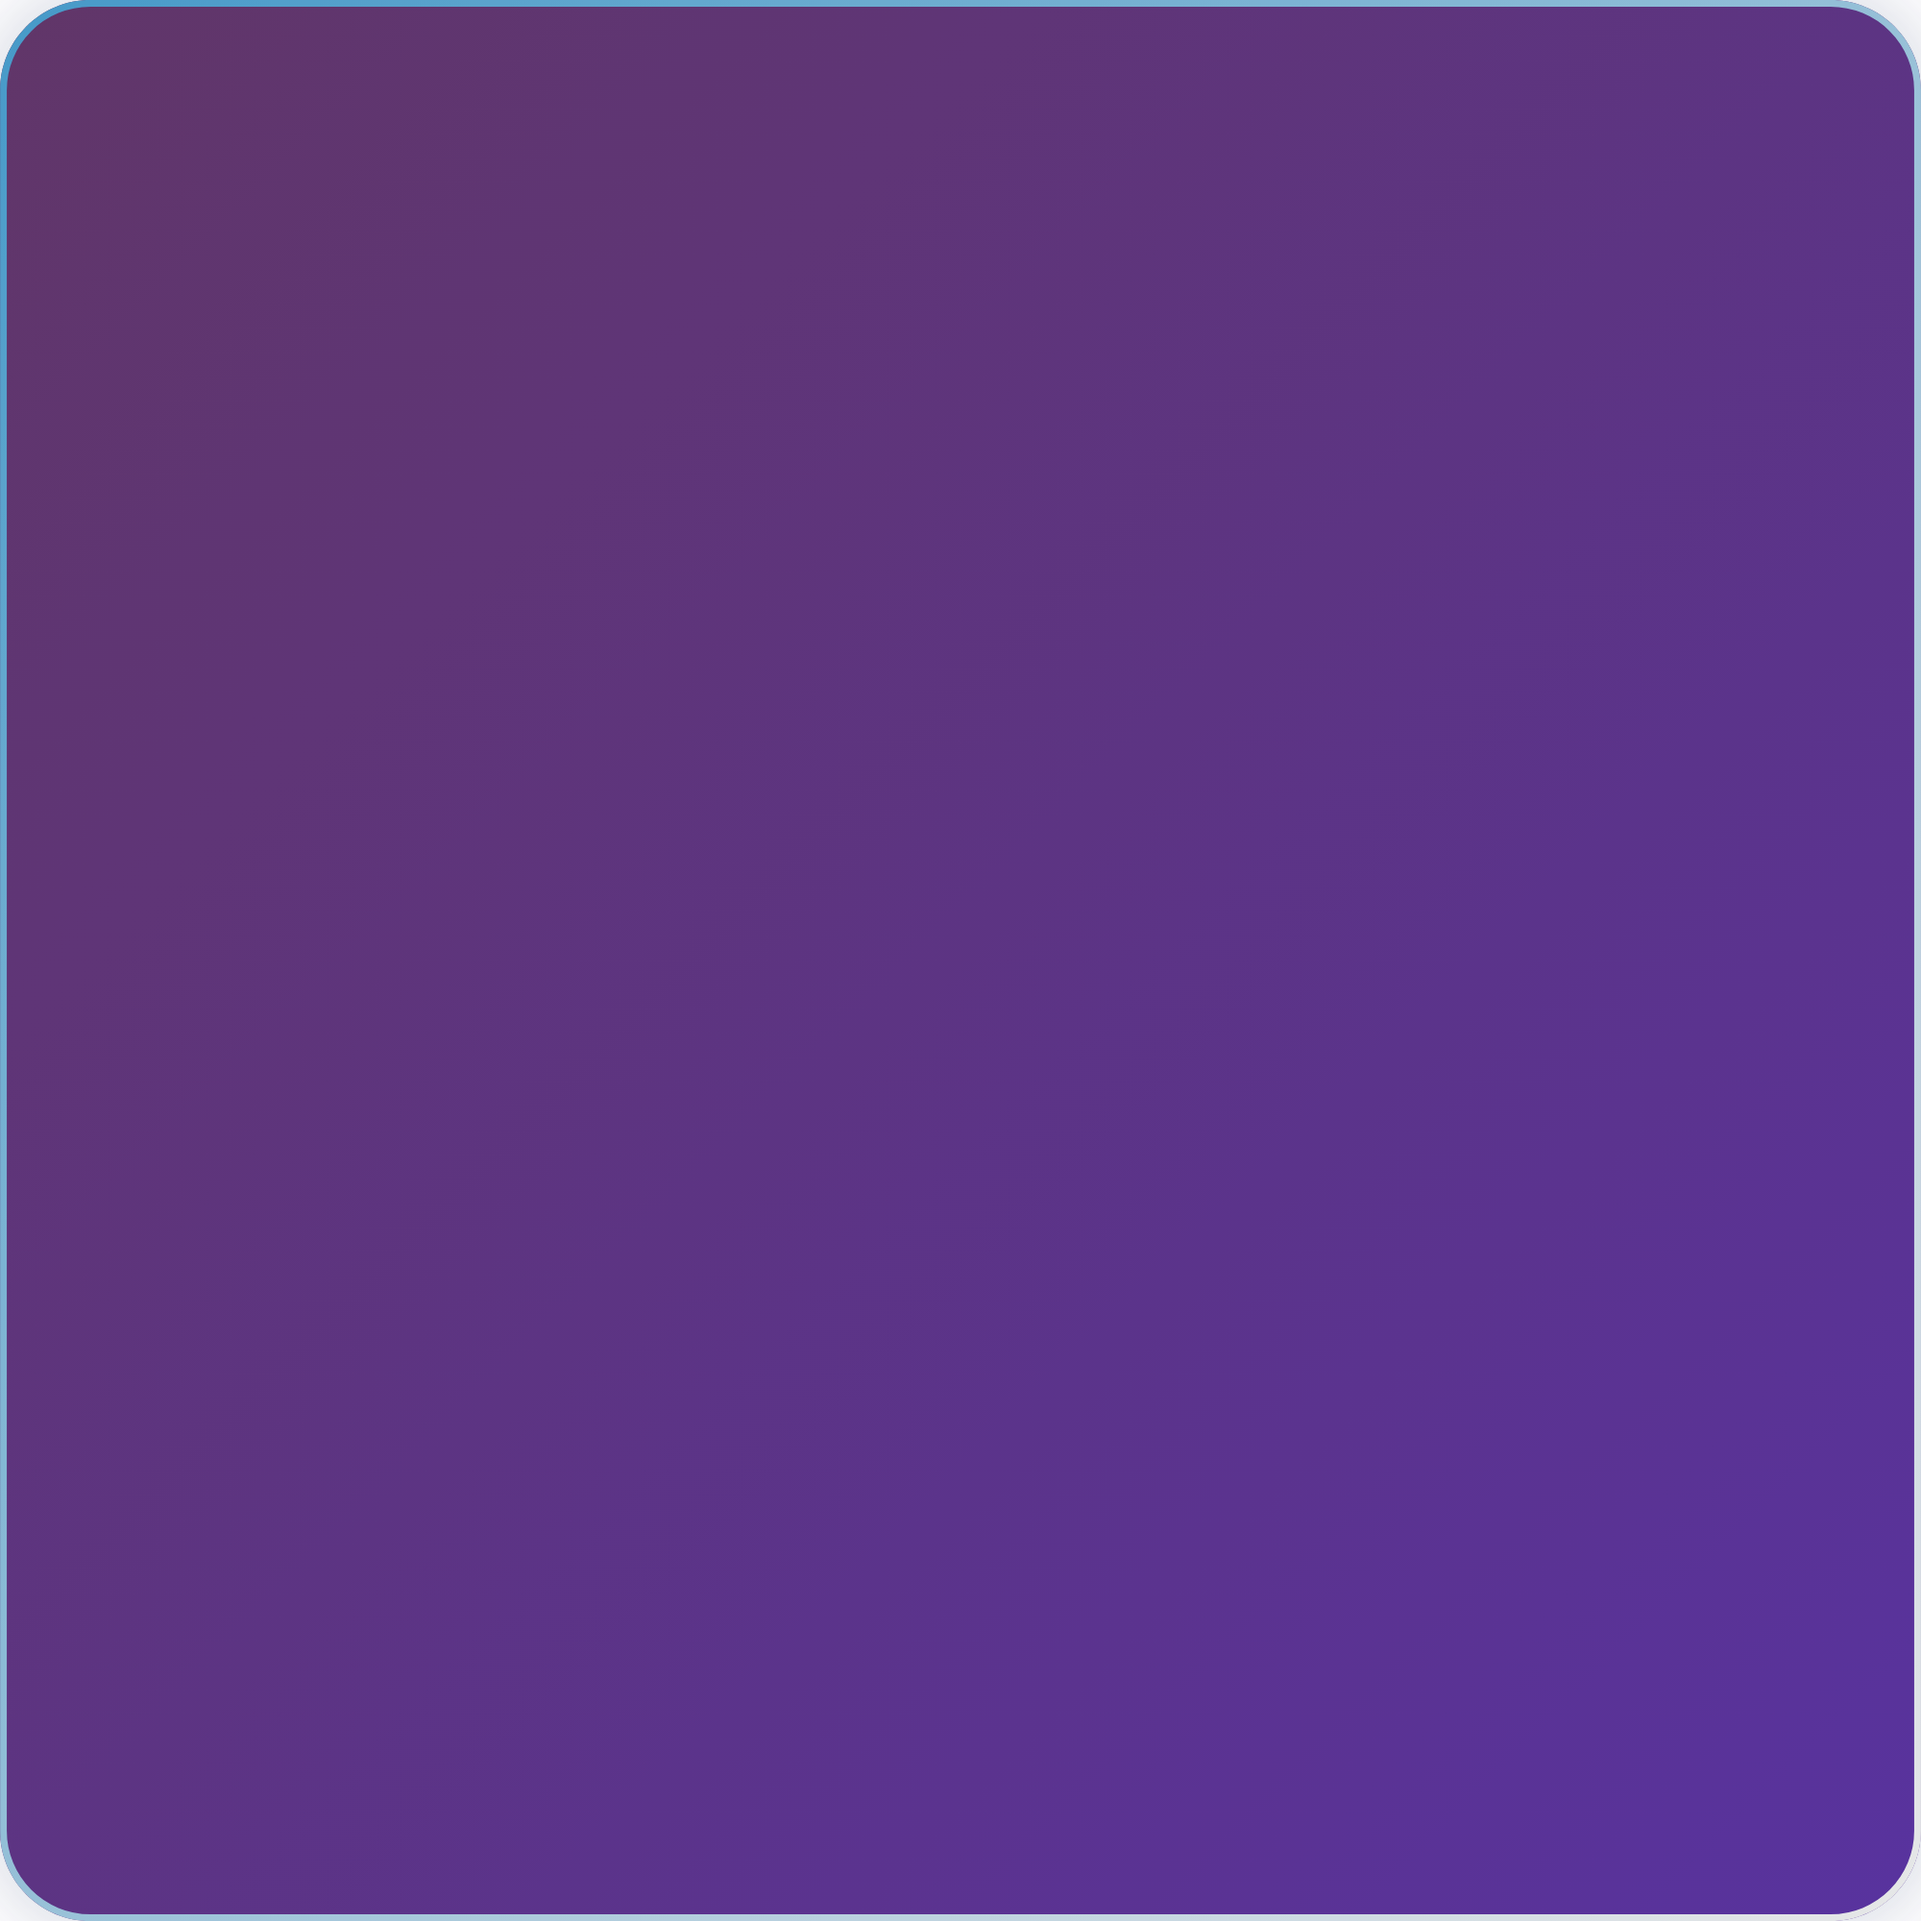
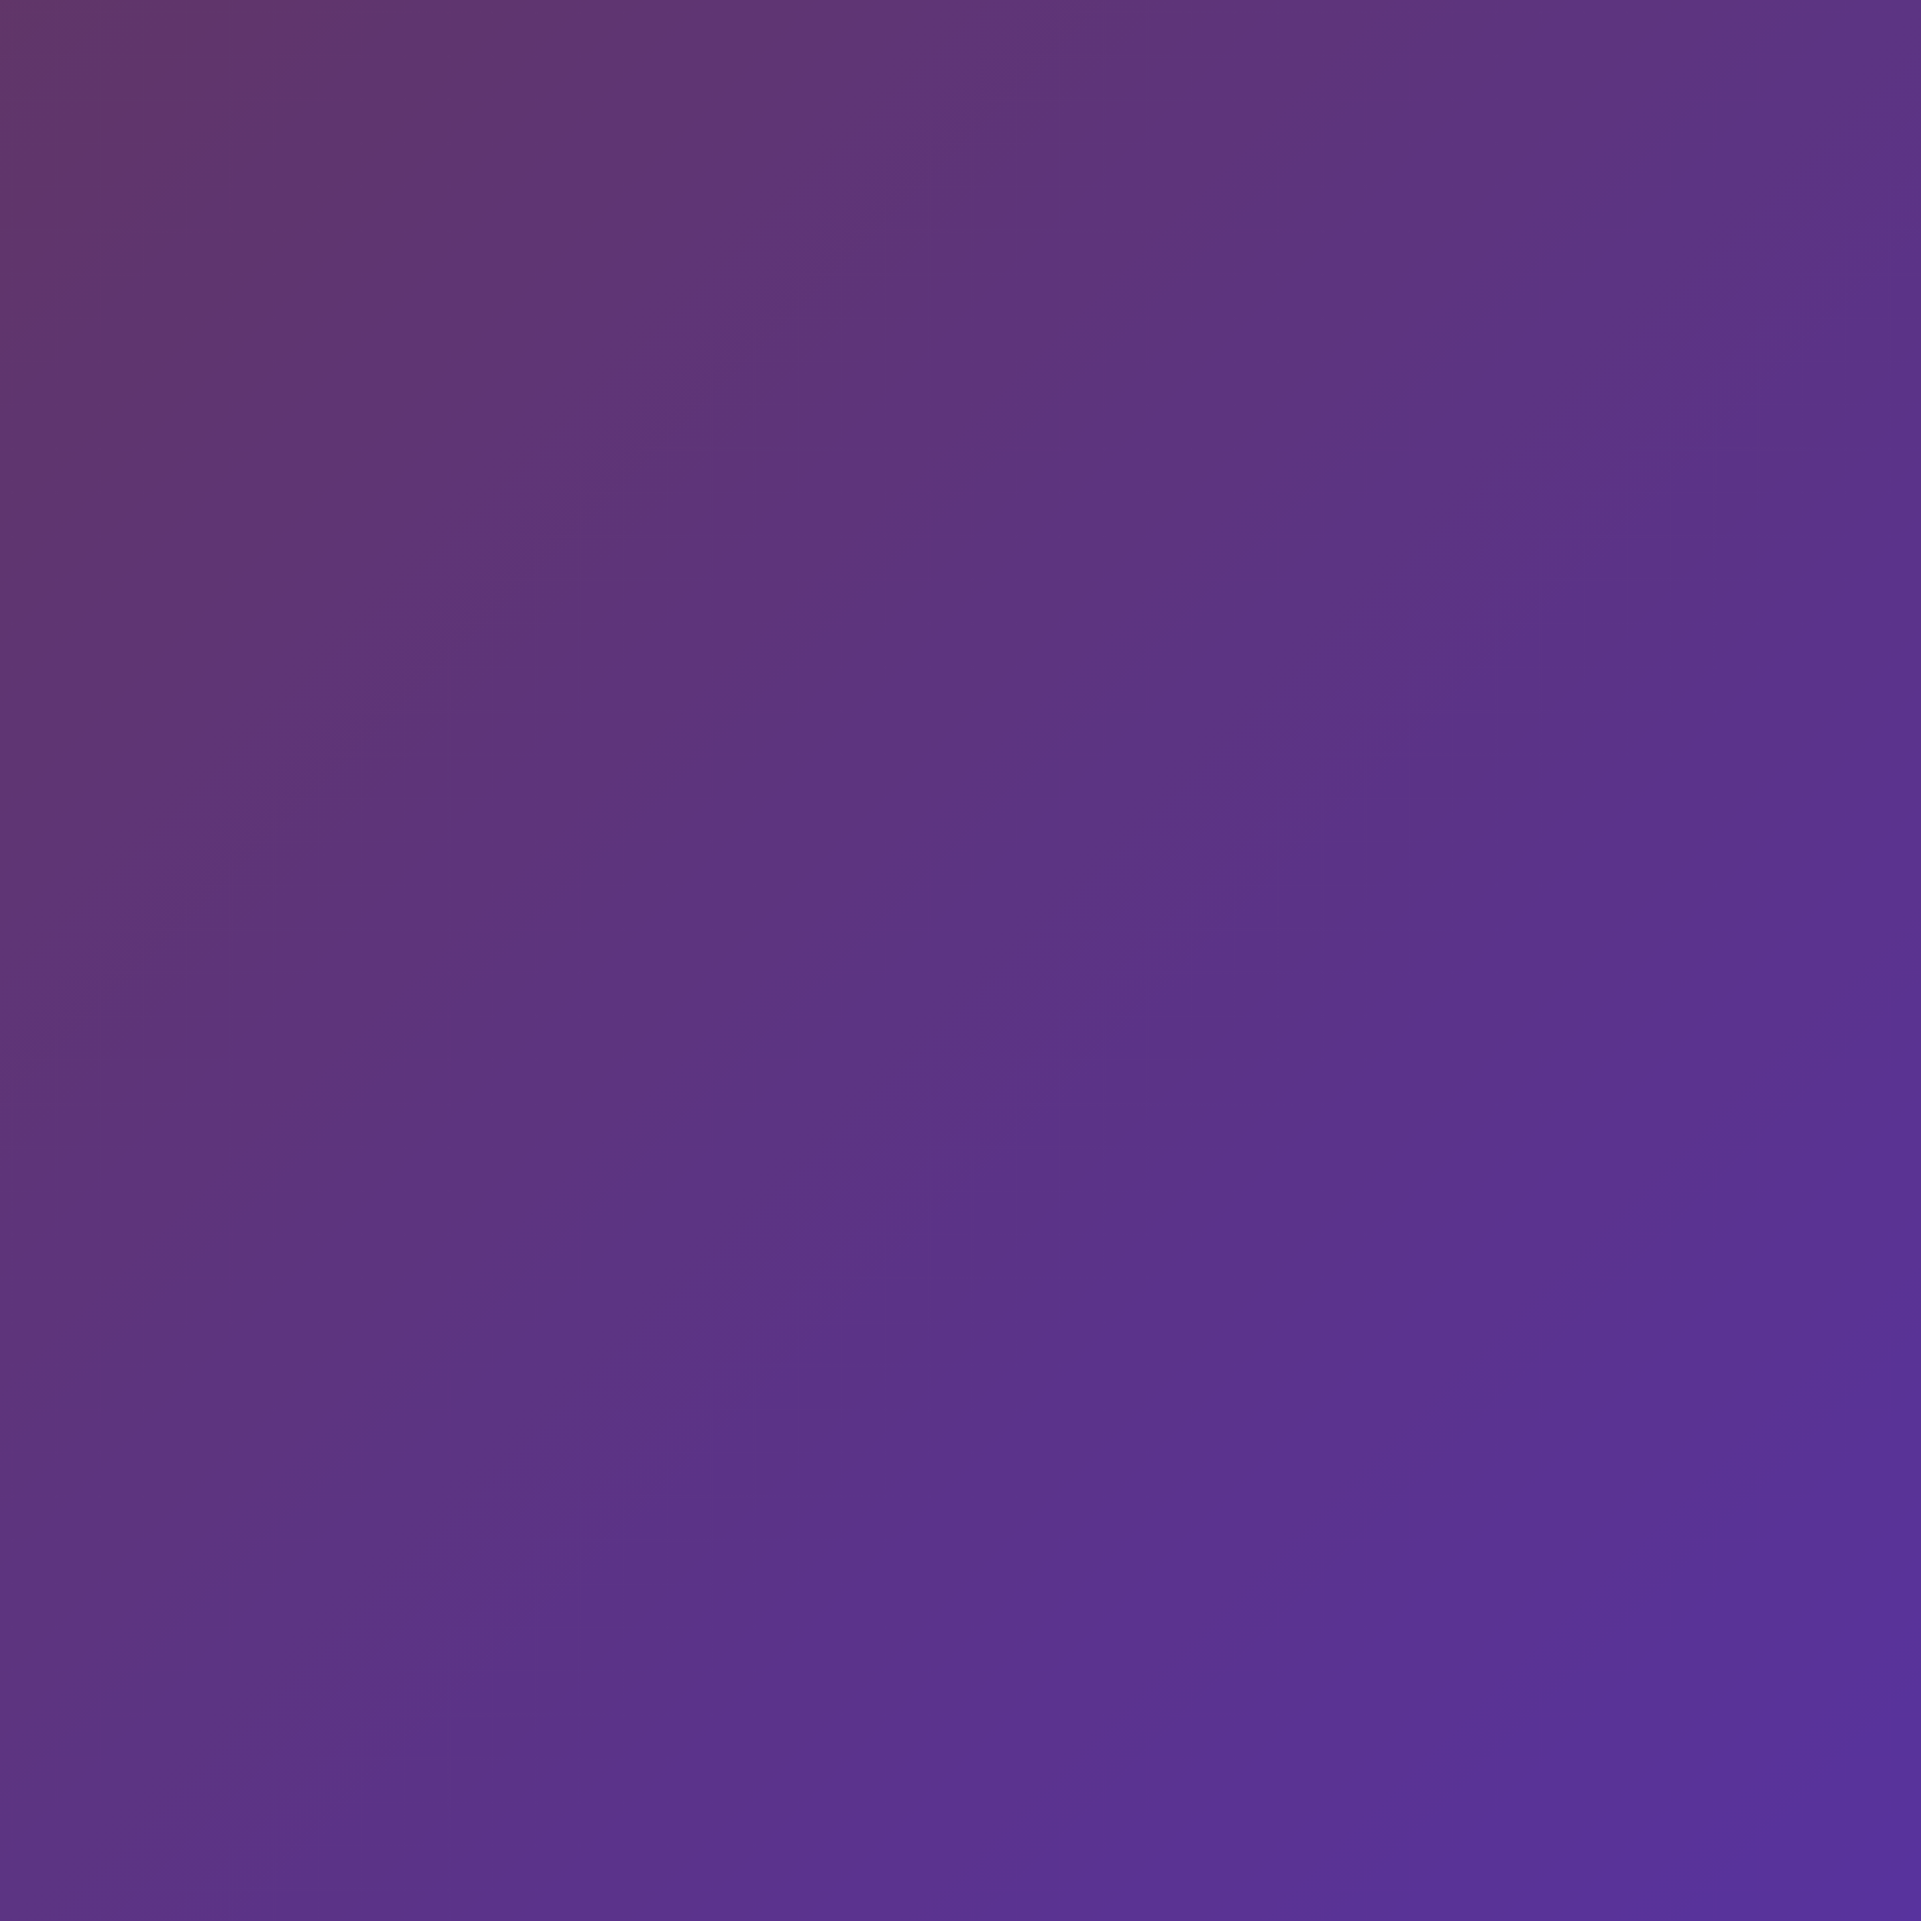
feat: menambah ulang kolom dan px outline

Changed region(s): [[0.0, 0.0, 1.0, 1.0]]

diff --git a/app.py b/app.py
@@ -492,35 +492,117 @@ if tema_aplikasi == "light":
     )
 
 
-# Gunakan artwork sebagai latar bingkai kartu saat tema gelap aktif.
-FILE_BACK_DARK = FOLDER_GAMBAR_LATAR / "back_dark.png"
-if tema_aplikasi == "dark" and FILE_BACK_DARK.is_file():
-    tipe_back_dark = mimetypes.guess_type(FILE_BACK_DARK.name)[0] or "image/png"
-    back_dark_base64 = base64.b64encode(FILE_BACK_DARK.read_bytes()).decode("ascii")
+# Artwork menggantikan garis bingkai kartu, mengikuti tema yang aktif.
+NAMA_BINGKAI = "back_light.png" if tema_aplikasi == "light" else "back_dark.png"
+FILE_BINGKAI = FOLDER_GAMBAR_LATAR / NAMA_BINGKAI
+WARNA_GARIS_BINGKAI = "#eee9f0" if tema_aplikasi == "light" else "#4c1d95"
+if FILE_BINGKAI.is_file():
+    tipe_bingkai = mimetypes.guess_type(FILE_BINGKAI.name)[0] or "image/png"
+    bingkai_base64 = base64.b64encode(FILE_BINGKAI.read_bytes()).decode("ascii")
+    css_bingkai = f"""
+    <style>
+    div[class*="st-key-student_card_"],
+    div[class*="st-key-question_card_"],
+    div[class*="st-key-about_card"],
+    div[class*="st-key-auth_card"] {{
+        border: 3px solid {WARNA_GARIS_BINGKAI} !important;
+        outline: 0 !important;
+        box-shadow: none !important;
+        border-radius: 16px !important;
+        overflow: hidden !important;
+        background: url("data:{tipe_bingkai};base64,{bingkai_base64}") center / 100% 100% no-repeat !important;
+    }}
+    div[class*="st-key-student_card_"] [data-testid="stVerticalBlockBorderWrapper"],
+    div[class*="st-key-student_card_"] [data-testid="stVerticalBlock"],
+    div[class*="st-key-question_card_"] [data-testid="stVerticalBlockBorderWrapper"],
+    div[class*="st-key-question_card_"] [data-testid="stVerticalBlock"],
+    div[class*="st-key-about_card"] [data-testid="stVerticalBlockBorderWrapper"],
+    div[class*="st-key-about_card"] [data-testid="stVerticalBlock"],
+    div[class*="st-key-auth_card"] [data-testid="stVerticalBlockBorderWrapper"],
+    div[class*="st-key-auth_card"] [data-testid="stVerticalBlock"] {{
+        border: 0 !important;
+        outline: 0 !important;
+        box-shadow: none !important;
+        background: transparent !important;
+    }}
+    </style>
+    """
+    st.markdown(css_bingkai, unsafe_allow_html=True)
+elif tema_aplikasi == "dark":
+    # Sembunyikan outline putih jika gambar bingkai belum terbaca.
+    st.markdown(
+        """
+        <style>
+        div[data-testid="stVerticalBlockBorderWrapper"],
+        div[data-testid="stVerticalBlockBorderWrapper"] > div[data-testid="stVerticalBlock"] {
+            border: 0 !important;
+            outline: 0 !important;
+            box-shadow: none !important;
+            border-radius: 16px !important;
+            background: rgba(57, 25, 88, .78) !important;
+        }
+        </style>
+        """,
+        unsafe_allow_html=True,
+    )
+
+# Dekorasi partikel mengambang pada wallpaper tema gelap.
+FILE_PARTIKEL = FOLDER_GAMBAR_LATAR / "partikel.png"
+if FILE_PARTIKEL.is_file():
+    tipe_partikel = mimetypes.guess_type(FILE_PARTIKEL.name)[0] or "image/png"
+    partikel_base64 = base64.b64encode(FILE_PARTIKEL.read_bytes()).decode("ascii")
     st.markdown(
         f"""
         <style>
-        div[data-testid="stVerticalBlockBorderWrapper"] {{
-            position: relative !important;
-            isolation: isolate;
-            overflow: hidden;
-            border: 0 !important;
-            border-radius: 16px !important;
-            background: transparent !important;
-        }}
-        div[data-testid="stVerticalBlockBorderWrapper"]::before {{
+        .stApp {{ position: relative; isolation: isolate; }}
+        .stApp::before, .stApp::after {{
             content: "";
-            position: absolute;
+            position: fixed;
             inset: 0;
             z-index: 0;
             pointer-events: none;
-            background: url("data:{tipe_back_dark};base64,{back_dark_base64}") center / 100% 100% no-repeat;
-            border-radius: inherit;
+            background-image: url("data:{tipe_partikel};base64,{partikel_base64}"),
+                              url("data:{tipe_partikel};base64,{partikel_base64}"),
+                              url("data:{tipe_partikel};base64,{partikel_base64}"),
+                              url("data:{tipe_partikel};base64,{partikel_base64}"),
+                              url("data:{tipe_partikel};base64,{partikel_base64}");
+            background-repeat: no-repeat, no-repeat, no-repeat, no-repeat, no-repeat;
+            will-change: opacity, background-position, transform;
         }}
-        div[data-testid="stVerticalBlockBorderWrapper"] > div {{
-            position: relative;
-            z-index: 1;
-            background: transparent !important;
+        .stApp::before {{
+            opacity: 0;
+            background-size: 126px 126px, 88px 88px, 104px 104px, 74px 74px, 64px 64px;
+            background-position: 12% 22%, 27% 73%, 68% 18%, 82% 79%, 47% 48%;
+            animation: partikel-fade-satu 3s ease-in-out infinite,
+                       partikel-ombak-satu 8s ease-in-out infinite;
+        }}
+        .stApp::after {{
+            opacity: 0;
+            background-size: 112px 112px, 92px 92px, 78px 78px, 70px 70px, 56px 56px;
+            background-position: 88% 76%, 74% 36%, 42% 55%, 16% 48%, 57% 84%;
+            animation: partikel-fade-dua 3s ease-in-out -1.5s infinite,
+                       partikel-ombak-dua 10s ease-in-out -4s infinite;
+        }}
+        .stApp > header, .stApp > div {{ position: relative; z-index: 1; }}
+        @keyframes partikel-fade-satu {{
+            0%, 100% {{ opacity: 0; }}
+            50% {{ opacity: 1; }}
+        }}
+        @keyframes partikel-fade-dua {{
+            0%, 100% {{ opacity: 0; }}
+            50% {{ opacity: 1; }}
+        }}
+        @keyframes partikel-ombak-satu {{
+            0%, 100% {{ transform: translate3d(0, 0, 0); }}
+            25% {{ transform: translate3d(12px, -16px, 0); }}
+            50% {{ transform: translate3d(22px, 3px, 0); }}
+            75% {{ transform: translate3d(10px, 17px, 0); }}
+        }}
+        @keyframes partikel-ombak-dua {{
+            0%, 100% {{ transform: translate3d(0, 0, 0); }}
+            25% {{ transform: translate3d(-14px, 13px, 0); }}
+            50% {{ transform: translate3d(-24px, -4px, 0); }}
+            75% {{ transform: translate3d(-11px, -17px, 0); }}
         }}
         </style>
         """,
@@ -583,7 +665,7 @@ with kol_akun:
 st.divider()
 
 if not akun_aktif and st.session_state.get("auth_mode"):
-    with st.container(border=True):
+    with st.container(border=True, key="auth_card"):
         mode_akun = st.session_state["auth_mode"]
         st.subheader("Masuk ke akun" if mode_akun == "masuk" else "Buat akun baru")
         if mode_akun == "masuk":
@@ -634,7 +716,7 @@ if nav_primary == "Beranda":
     st.markdown('<h1 class="about-title">TENTANG</h1>', unsafe_allow_html=True)
     kol_about_sisi_kiri, kol_about_kartu, kol_about_sisi_kanan = st.columns([0.6, 8.8, 0.6])
     with kol_about_kartu:
-        with st.container(border=True):
+        with st.container(border=True, key="about_card"):
             kol_logo_about, kol_tentang = st.columns([1, 3])
             with kol_logo_about:
                 if file_logo.is_file():
@@ -748,7 +830,7 @@ nama_tugas = st.text_input("Nama tugas atau ulangan", key="nama_tugas")
 
 # Guru mengisi setiap soal dan acuannya satu kali.
 for nomor in range(1, int(jumlah_soal) + 1):
-    with st.container(border=True):
+    with st.container(border=True, key=f"question_card_{nomor}"):
         st.markdown(f"**Soal {nomor}**")
 
         kol_soal, kol_acuan = st.columns(2)
@@ -787,7 +869,7 @@ st.caption(
 daftar_siswa = []
 
 for nomor_siswa in range(1, int(jumlah_siswa) + 1):
-    with st.container(border=True):
+    with st.container(border=True, key=f"student_card_{nomor_siswa}"):
         st.markdown(f"### Siswa {nomor_siswa}")
 
         nama_manual = st.text_input(
